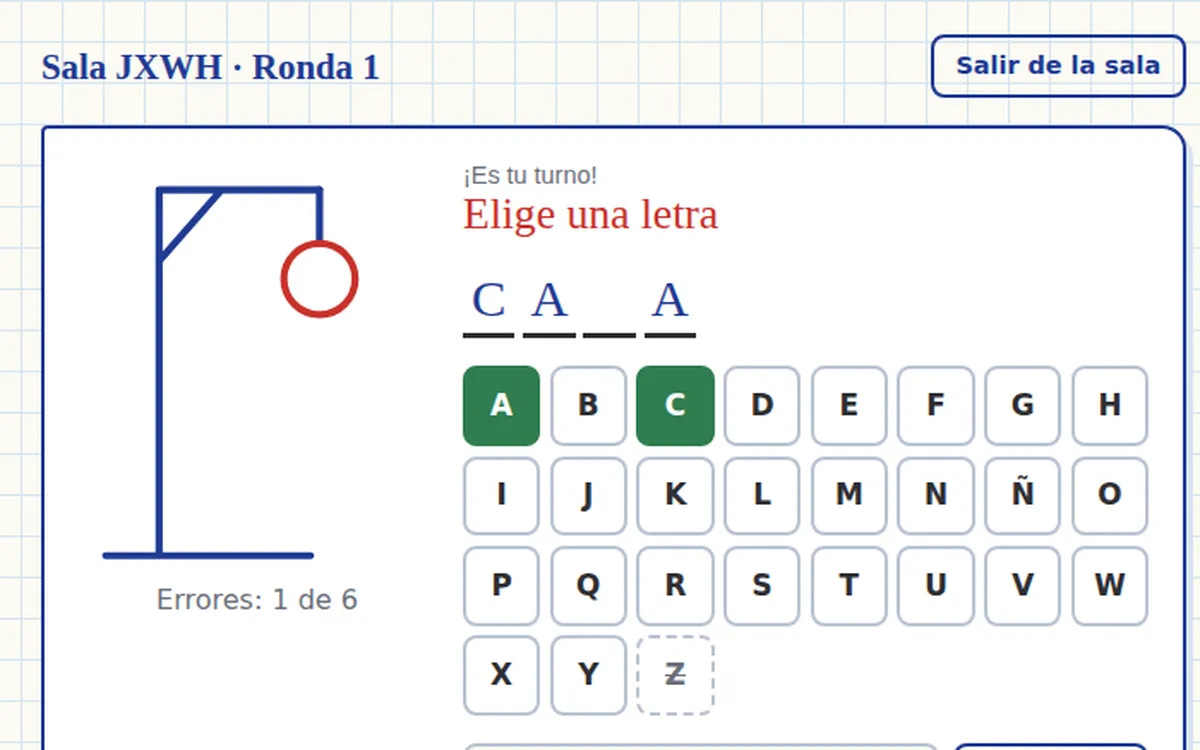
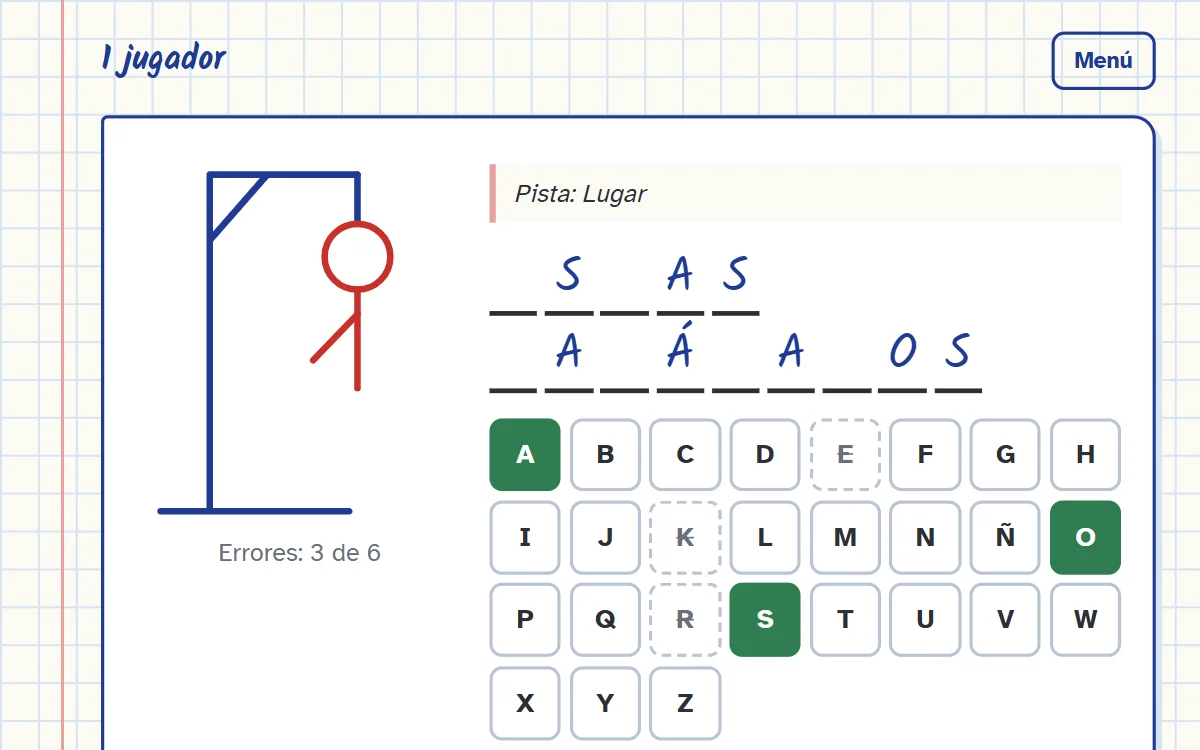
Actualiza Sobre mí, el nombre, las capturas de proyectos y el README
- Sobre mí: el título pasa a la columna izquierda para que el cuadro
  "Qué hago" quede a la misma altura.
- Inicio: se reduce el tamaño del nombre (token --text-hero).
- Proyectos: capturas reales del Juego del Ahorcado y de la plataforma
  de gestión de pacientes, con textos alternativos actualizados.
- Pie de página: se quita el enlace al Design System (sigue en el menú).
- README: enlaces corregidos al repositorio Portafolio-web y a su
  GitHub Pages.
- .gitignore guardado en UTF-8 para que Git lo reconozca.

Changed region(s): [[0.0, 0.0, 1.0, 1.0], [0.37, 0.2147, 0.6167, 0.3373]]

diff --git a/index.html b/index.html
@@ -87,13 +87,13 @@
     <!-- ================= Sobre mí ================= -->
     <section class="section section--alt" id="sobre-mi" aria-labelledby="titulo-sobre-mi">
       <div class="container">
-        <header class="section__header">
-          <h2 id="titulo-sobre-mi">Sobre mí</h2>
-          <p>Me interesa el desarrollo web de principio a fin: desde la base de datos hasta la pantalla que usa la gente.</p>
-        </header>
-
         <div class="about__grid">
           <div class="about__text">
+            <header class="section__header">
+              <h2 id="titulo-sobre-mi">Sobre mí</h2>
+              <p>Me interesa el desarrollo web de principio a fin: desde la base de datos hasta la pantalla que usa la gente.</p>
+            </header>
+
             <!-- EDITAR: cuenta tu historia con tus propias palabras -->
             <p>
               Soy desarrollador web. Empecé con HTML y CSS, y hoy trabajo con JavaScript en el navegador
@@ -274,7 +274,7 @@
           <!-- Proyecto 1 -->
           <article class="card" data-tech="html css javascript firebase">
             <figure class="card__media">
-              <img src="assets/img/proyecto-ahorcado.webp" alt="Partida del juego del ahorcado con la palabra CASA a medio descubrir y el teclado en pantalla" width="1200" height="750" loading="lazy">
+              <img src="assets/img/proyecto-ahorcado.webp" alt="Partida del juego del ahorcado en modo 1 jugador, con la pista Lugar, letras acertadas y 3 errores de 6" width="1200" height="750" loading="lazy">
             </figure>
             <div class="card__body">
               <h3 class="card__title">Juego del Ahorcado multijugador</h3>
@@ -311,7 +311,7 @@
           <!-- Proyecto 2 -->
           <article class="card" data-tech="python django postgresql javascript html css">
             <figure class="card__media">
-              <img src="assets/img/proyecto-clinica.webp" alt="Detalle de una consulta médica con signos vitales, IMC, receta y cita de seguimiento" width="1200" height="750" loading="lazy">
+              <img src="assets/img/proyecto-clinica.webp" alt="Detalle de una consulta médica con datos del paciente, alerta de alergias, síntomas y signos vitales con el IMC" width="1200" height="750" loading="lazy">
             </figure>
             <div class="card__body">
               <h3 class="card__title">Plataforma de gestión de pacientes</h3>
@@ -455,7 +455,6 @@
   <footer class="footer">
     <div class="footer__inner container">
       <p>© <span data-year>2026</span> Germán Riera. Hecho con HTML, CSS y JavaScript.</p>
-      <p><a href="design-system.html">Design System</a></p>
     </div>
   </footer>
 

diff --git a/css/layout.css b/css/layout.css
@@ -105,6 +105,11 @@
   font-size: var(--text-lg);
 }
 
+/* El título va dentro de la columna izquierda para que el cuadro lateral quede a su altura */
+.about__text .section__header {
+  margin-bottom: var(--space-xl);
+}
+
 .about__aside {
   padding: var(--space-lg);
   border-radius: var(--radius-md);

diff --git a/css/tokens.css b/css/tokens.css
@@ -32,7 +32,7 @@
   --text-xl: 1.5625rem;
   --text-2xl: 1.953rem;
   --text-3xl: clamp(2.2rem, 4vw + 1rem, 3.3rem);
-  --text-hero: clamp(2.8rem, 8vw + 0.5rem, 6rem);
+  --text-hero: clamp(2.4rem, 5vw + 0.75rem, 4.25rem);
 
   --weight-regular: 400;
   --weight-semibold: 600;

diff --git a/README.md b/README.md
@@ -2,8 +2,8 @@
 
 Portafolio personal de **Germán Riera**, desarrollador web. Presenta mi perfil, mis habilidades técnicas y mis proyectos destacados, junto con un Design System que documenta los componentes del sitio.
 
-- **Sitio publicado:** https://germanrieraunemi.github.io/portafolio/
-- **Repositorio:** https://github.com/GERMANRIERAUNEMI/portafolio
+- **Sitio publicado:** https://germanrieraunemi.github.io/Portafolio-web/
+- **Repositorio:** https://github.com/GERMANRIERAUNEMI/Portafolio-web
 
 ![Captura del portafolio en escritorio](docs/captura-escritorio.webp)
 
@@ -57,7 +57,7 @@ portafolio/
 
 1. Clona el repositorio:
    ```bash
-   git clone https://github.com/GERMANRIERAUNEMI/portafolio.git
+   git clone https://github.com/GERMANRIERAUNEMI/Portafolio-web.git
    ```
 2. Abre `index.html` en el navegador (doble clic), o usa la extensión **Live Server** de VS Code.
 
